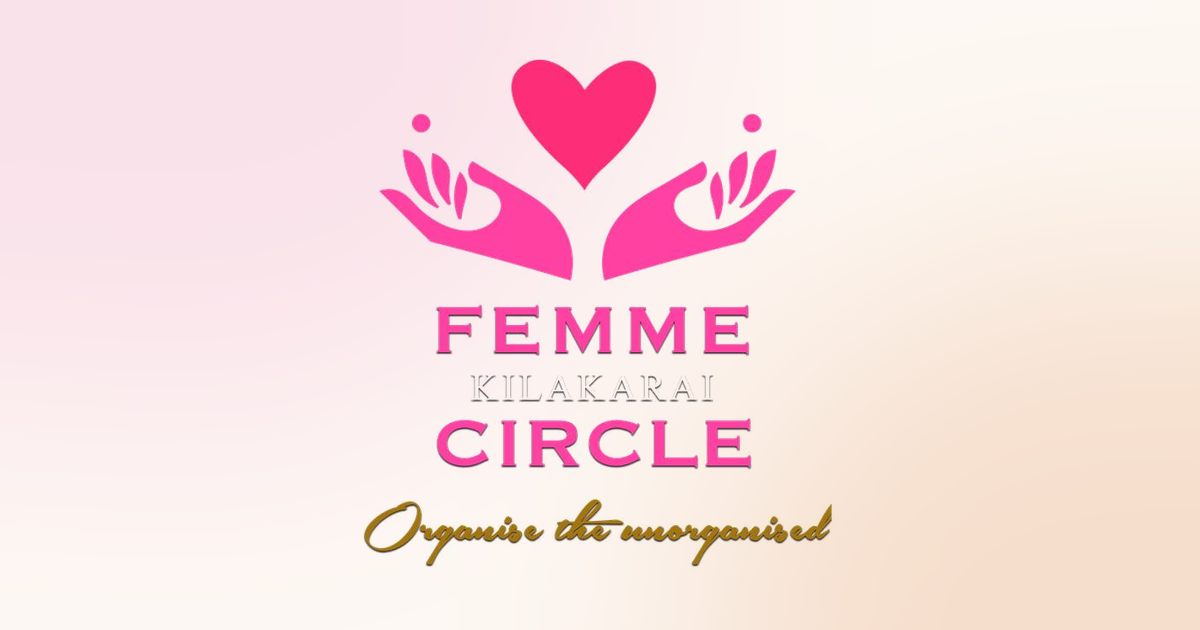
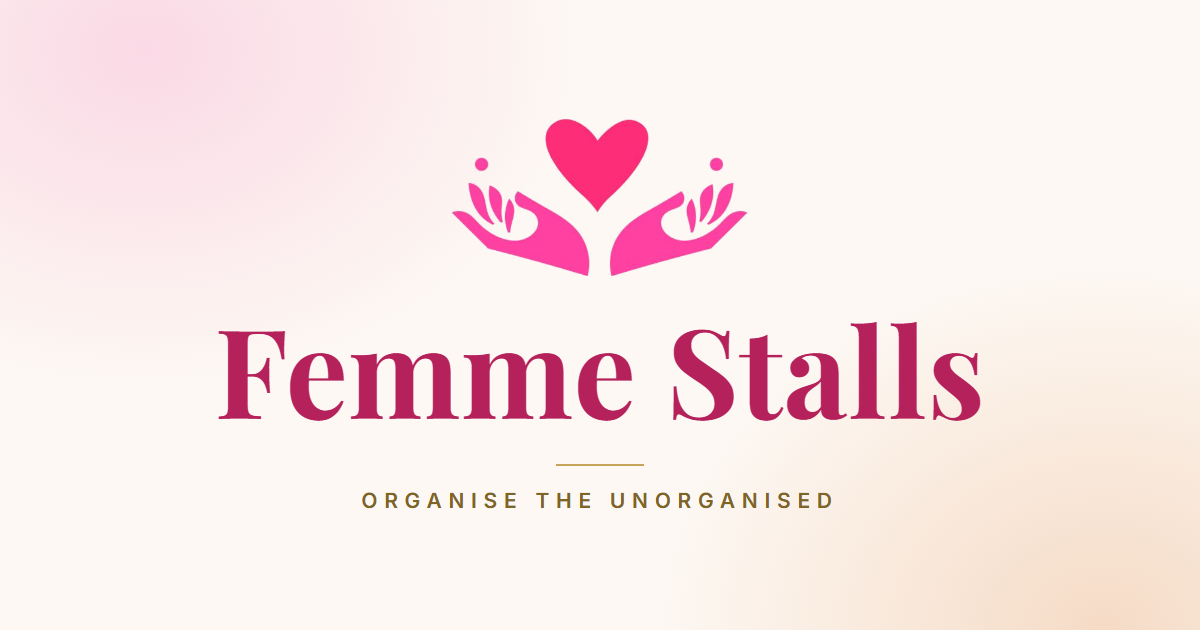
feat(static): Open Graph card with the mark and Femme Stalls wordmark
og-image.png is now the hands-and-heart mark over "Femme Stalls" in
Playfair Display on cream (1200x630), rendered from scripts/og/og.html with
headless Chrome by build-brand-assets.py. The previous full-logo card is
kept as og-image-circle.png; copying it over og-image.png reverts.
The footer keeps the full logo.

diff --git a/scripts/og/og.html b/scripts/og/og.html
@@ -1,0 +1,33 @@
+<!doctype html>
+<!-- Open Graph card template (1200x630). Rendered to site/assets/brand/og-image.png
+     by scripts/build-brand-assets.py with headless Chrome. -->
+<html lang="en">
+<head>
+<meta charset="utf-8">
+<link rel="stylesheet" href="https://fonts.googleapis.com/css2?family=Inter:wght@600&family=Playfair+Display:wght@700&display=block">
+<style>
+  html, body { margin: 0; width: 1200px; height: 630px; overflow: hidden; }
+  body {
+    display: flex; flex-direction: column; align-items: center; justify-content: center;
+    background:
+      radial-gradient(ellipse 620px 480px at 12% 8%, rgba(250, 214, 228, 0.9), transparent 70%),
+      radial-gradient(ellipse 640px 520px at 92% 100%, rgba(244, 214, 190, 0.85), transparent 70%),
+      #fdf8f3;
+    font-family: "Inter", system-ui, sans-serif;
+  }
+  img { width: 300px; height: auto; display: block; }
+  h1 {
+    margin: 30px 0 0; font-family: "Playfair Display", Georgia, serif; font-weight: 700;
+    font-size: 124px; line-height: 1; letter-spacing: 0.005em; color: #b5225b;
+  }
+  .rule { width: 88px; height: 2px; margin: 34px 0 22px; background: #c5a55a; }
+  p { margin: 0; font-weight: 600; font-size: 21px; letter-spacing: 0.32em; text-transform: uppercase; color: #806426; }
+</style>
+</head>
+<body>
+  <img src="mark.png" alt="">
+  <h1>Femme Stalls</h1>
+  <div class="rule"></div>
+  <p>Organise the Unorganised</p>
+</body>
+</html>

diff --git a/scripts/build-brand-assets.py b/scripts/build-brand-assets.py
@@ -15,7 +15,9 @@ Outputs (site/)
   assets/brand/femme-mark.{png,webp}       hands-and-heart mark, transparent
   assets/brand/femme-logo.{png,webp}       full logo, transparent (cream plate)
   assets/brand/<sister>.{png,webp}         sister-brand logos, full colour
-  assets/brand/favicon-32.png, apple-touch-icon.png, og-image.png
+  assets/brand/favicon-32.png, apple-touch-icon.png
+  assets/brand/og-image.png                mark + wordmark card (scripts/og/og.html, headless Chrome)
+  assets/brand/og-image-circle.png         previous full-logo card (copy over og-image.png to revert)
   favicon.ico                              16/32/48
   assets/img/*.{jpg,webp}                  hero + category photography
   assets/img/stalls/<slug>/logo.{png,webp}
@@ -23,7 +25,9 @@ Outputs (site/)
 
 from __future__ import annotations
 
+import os
 import shutil
+import subprocess
 from pathlib import Path
 
 from PIL import Image, ImageChops, ImageDraw, ImageFilter
@@ -32,6 +36,14 @@ ROOT = Path(__file__).resolve().parents[1]
 SRC = ROOT.parent / "brand-assets"
 SITE = ROOT / "site"
 BRAND = SITE / "assets" / "brand"
+OG = ROOT / "scripts" / "og"
+CHROME_PATHS = [
+    os.environ.get("CHROME_PATH"),
+    r"C:\Program Files\Google\Chrome\Application\chrome.exe",
+    "/Applications/Google Chrome.app/Contents/MacOS/Google Chrome",
+    "/usr/bin/google-chrome",
+    "/usr/bin/chromium",
+]
 IMG = SITE / "assets" / "img"
 for d in (BRAND, IMG):
     d.mkdir(parents=True, exist_ok=True)
@@ -135,7 +147,25 @@ def build_femme() -> None:
     og = wash.filter(ImageFilter.GaussianBlur(120)).convert("RGBA")
     logo = fit(full, 520, 520)
     og.alpha_composite(logo, ((1200 - logo.width) // 2, (630 - logo.height) // 2))
-    og.convert("RGB").save(BRAND / "og-image.png", optimize=True)
+    og.convert("RGB").save(BRAND / "og-image-circle.png", optimize=True)
+    print("  og-image-circle.png  1200x630 (previous card; copy over og-image.png to revert)")
+
+    # Open Graph (current): the mark + "Femme Stalls" set in Playfair Display on
+    # cream, rendered from scripts/og/og.html with headless Chrome.
+    fit(mark, 600, 320).save(OG / "mark.png", optimize=True)
+    render_og()
+
+
+def render_og() -> None:
+    chrome = next((c for c in CHROME_PATHS if c and Path(c).exists()), None)
+    if not chrome:
+        print("  og-image.png skipped: set CHROME_PATH to a Chrome/Chromium binary")
+        return
+    out = BRAND / "og-image.png"
+    subprocess.run([chrome, "--headless=new", "--disable-gpu", "--hide-scrollbars", "--force-device-scale-factor=1",
+                    "--window-size=1200,630", "--virtual-time-budget=10000", f"--screenshot={out}",
+                    (OG / "og.html").as_uri()], check=True, capture_output=True)
+    Image.open(out).convert("RGB").crop((0, 0, 1200, 630)).save(out, optimize=True)
     print("  og-image.png  1200x630")
 
 

diff --git a/AGENTS.md b/AGENTS.md
@@ -44,12 +44,14 @@ site/
                                  flows, timeline, accordion, forms)
     css/<page>.css               one small file per inner page; stall.css for stall pages
     js/config.js  layout.js  ui.js  home.js  filters.js  forms.js  stall.js
-    brand/                       logos (PNG + WebP), favicons, og-image.png
+    brand/                       logos (PNG + WebP), favicons, og-image.png (mark + wordmark;
+                                 og-image-circle.png is the previous full-logo card)
     img/                         photography (JPEG + WebP), stall logos
     icons.svg                    Lucide SVG sprite
   data/stalls/                   index.json + one <slug>.json per stall client
 backend/google-apps-script/      Code.gs + deploy README for the form backend
-scripts/                         dev-time asset generators (outputs are committed)
+scripts/                         dev-time asset generators (outputs are committed);
+                                 og/og.html is the Open Graph card template
 ```
 
 ## Page template
